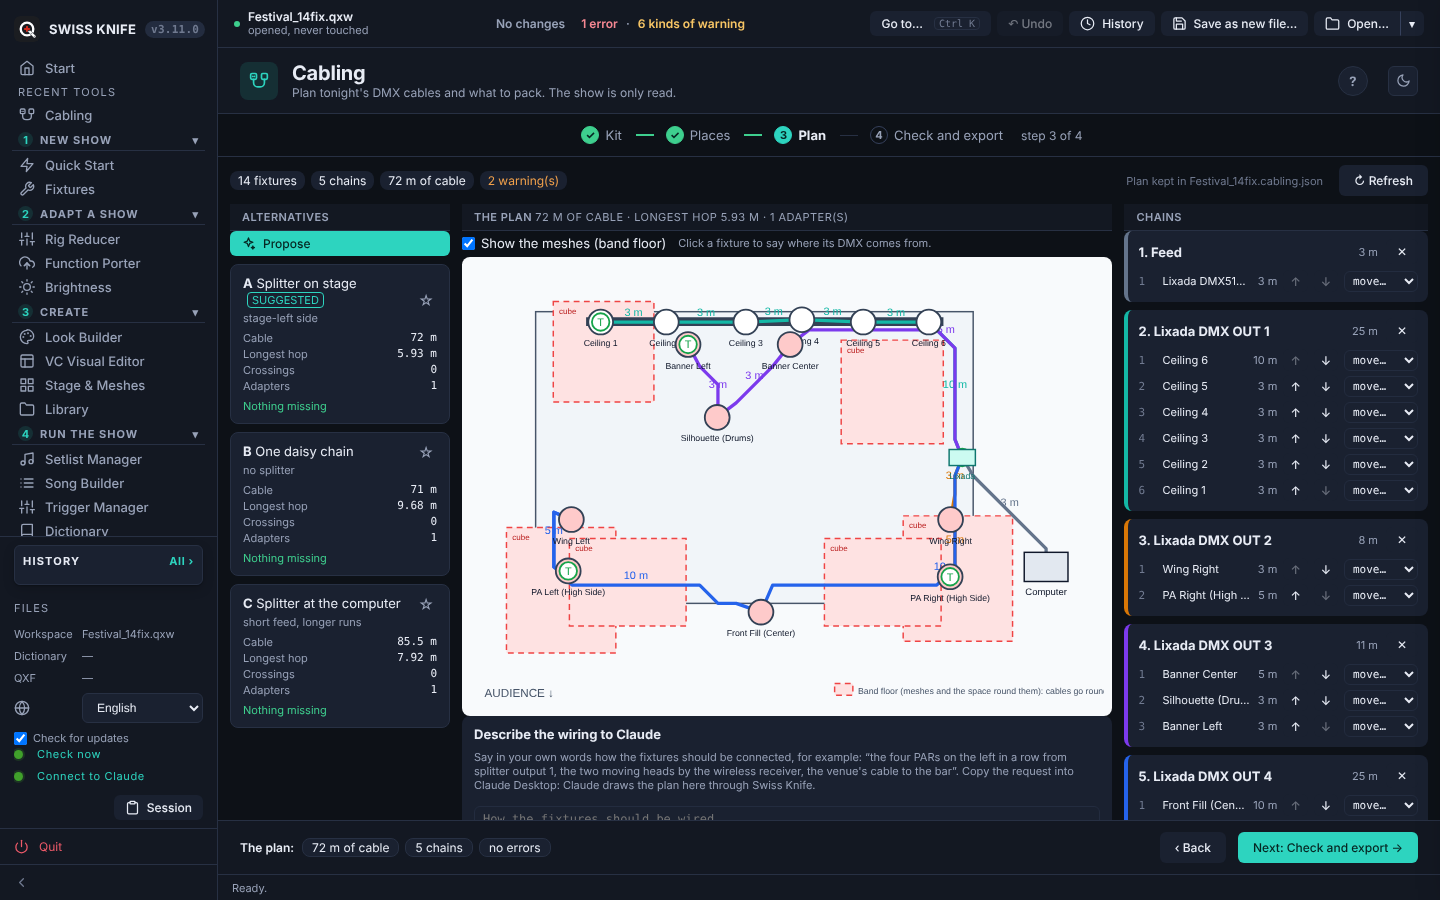
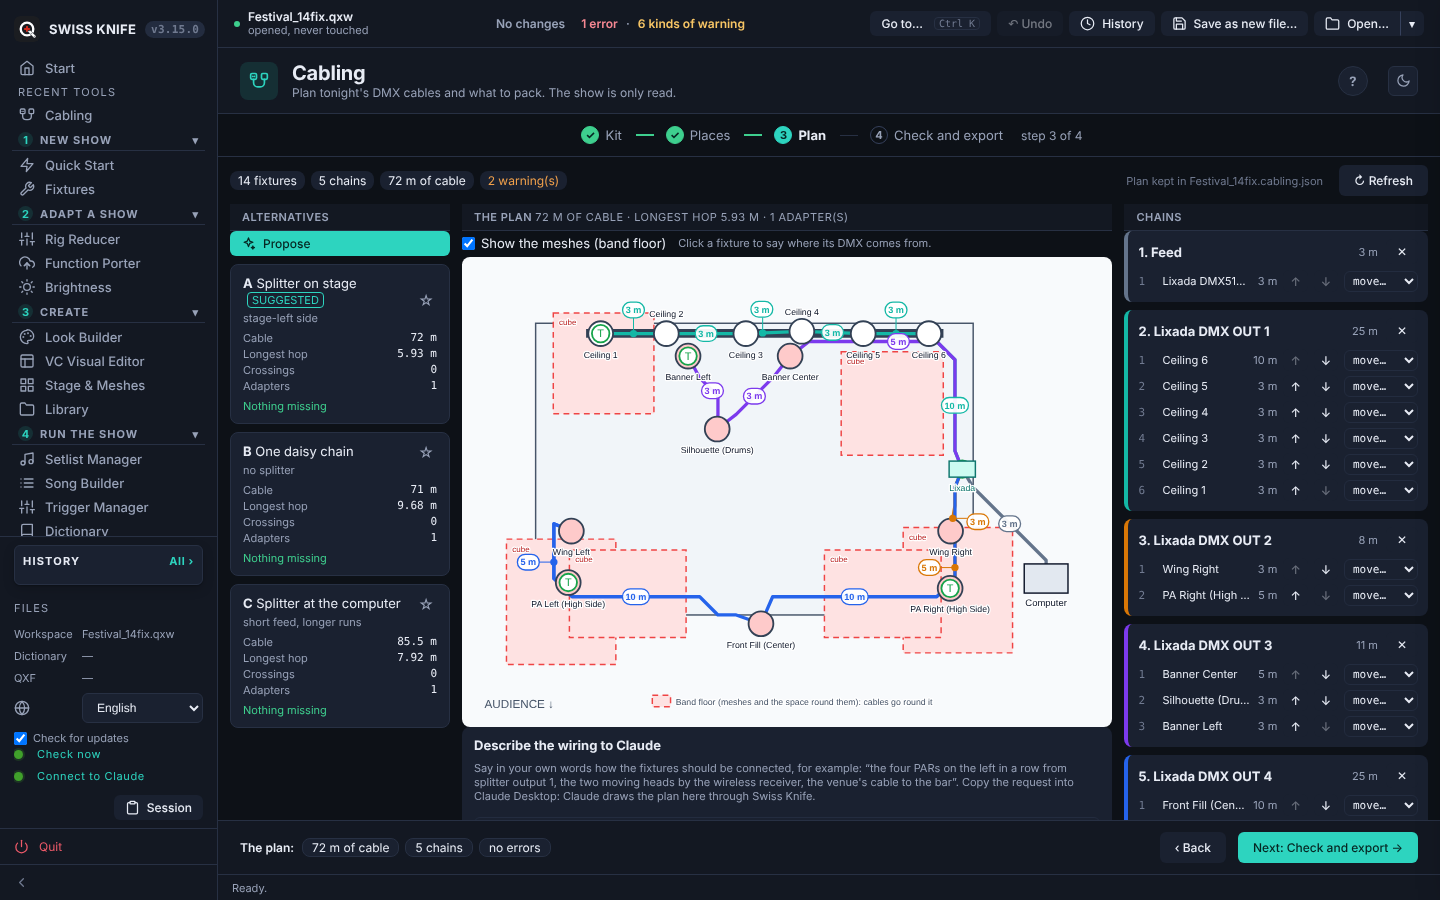
chore: release 3.15.0 (Cabling by radio)
Version 3.15.0 in workspace, README, spec and installer; CHANGELOG
section and release notes; Cabling plot screenshot retaken; WORKPLAN.

Claude-Session: https://claude.ai/code/session_01C97HwmdtVPyMas3zTDoMrE

Changed region(s): [[0.3125, 0.4978, 0.7812, 0.9022], [0.375, 0.3111, 0.6875, 0.4978], [0.6562, 0.4356, 0.6875, 0.4667]]

diff --git a/core/workspace.py b/core/workspace.py
@@ -30,7 +30,7 @@ QLC_NS_URI = 'http://www.qlcplus.org/Workspace'
 NS = {'q': QLC_NS_URI}
 ET.register_namespace('', QLC_NS_URI)
 
-VERSION = "3.14.1"  # single source of truth — must match CHANGELOG
+VERSION = "3.15.0"  # single source of truth — must match CHANGELOG
 
 # ── Safety limits (same as the tkinter version) ───────────────────────────────
 _MAX_XML_BYTES = 50 * 1024 * 1024   # 50 MB

diff --git a/WORKPLAN.md b/WORKPLAN.md
@@ -37,9 +37,9 @@ This is the living plan for Swiss Knife: where the project stands, what comes ne
 
 ## 2. Next releases
 
-**Next: 3.15.0, single fixtures by radio in Cabling** (giopas, 7 November 2026; branch `feat/v3.15.0`). Asked on the SangAKlang plan: send PA Left and PA Right by radio from a transmitter on a Lixada output, mark them on the plan, reroute the cables and move the terminators. Done: `core/cabling/plan.py` (`radio_feeds`, one receiver per radio chain placed by its fixture, a transmitter placed by what feeds it, C006 skips radio outputs, C005 when receivers run short), `chain.py` (no terminator on a transmitter without thru), `outputs.py` (ring, RX/TX boxes, legend kept inside the plot, pick list and load-in), `cabling.js` (*by radio, a receiver of its own*, radio tag, tidy-up of empty radio chains), the cabling tool description, 7 languages, `tests/test_cabling_3150.py`. Then, the same day: a readable plot (`outputs.py`: cable lengths on white tags placed where they cover least, with a leader to the cable when moved off it; fixture names placed where they are free; a white halo on every word; test in `test_cabling_3150.py`). Still to do before the release: the wiki page *Cabling*, `make_claude_tools_wiki.py`, the screenshots, the version bump and release notes.
+**Release in progress: 3.15.0, Cabling by radio** (giopas, 7 November 2026; branch `feat/v3.15.0`, waiting for the push and the tag). Asked on a real plan: send two PA fixtures by radio from a transmitter on a splitter output, mark them on the plan, reroute the cables and move the terminators; then a readable plot. Done: one receiver per radio chain placed by its fixture, the transmitter by what feeds it, `radio_feeds`, C006 skips radio outputs, C005 when receivers run short, no terminator on a transmitter without thru, ring and RX/TX boxes, cable lengths on white tags with leaders, fixture names placed where free, a white halo on every word, the legend kept inside the plot; *by radio, a receiver of its own* in the fixture panel; the `cabling` tool description; 7 languages; `tests/test_cabling_3150.py`; wiki *Cabling*; screenshot 22; version 3.15.0 and release notes. The main branch already carries the two feature commits (pushed before the release commit).
 
-**Released before: 3.14.1, the update card** (giopas, 7 November 2026; branch `fix/v3.14.1`, waiting for the push). 3.14.0, a clearer Song Builder, was released the same day (tag `v3.14.0`). Everything else waits in the wishlist in section 3; the two designed items (Teleprompter, Colour themes and porting by eye) are written out at the end of that section.
+**Released before: 3.14.1, the update card** (giopas, 7 November 2026; tag `v3.14.1`). 3.14.0, a clearer Song Builder, was released the same day (tag `v3.14.0`). Everything else waits in the wishlist in section 3; the two designed items (Teleprompter, Colour themes and porting by eye) are written out at the end of that section.
 
 ### 3.14.1 · The update card (fix)
 

diff --git a/docs/release-notes/RELEASE_NOTES_v3.15.0.md b/docs/release-notes/RELEASE_NOTES_v3.15.0.md
@@ -1,0 +1,18 @@
+### Added — single fixtures by radio in Cabling (3.15.0)
+
+- **A fixture can get its DMX by radio.** Click it on the plan and choose *by radio, a receiver of its own* under *Gets DMX*. The first time, the wireless transmitter goes on a free output of the splitter (or of the interface when no splitter is fed) and stands next to it. Every fixture sent by radio gets its own receiver, which stands by the fixture (on its truss when the fixture hangs), so two fixtures on opposite sides of the stage no longer share a cable.
+- **The plan shows it.** A fixture fed by radio has a dashed violet ring and the word *radio* on the plot, a *radio* tag in its chain, and its box says which receiver feeds it. The receivers (RX) and the transmitter (TX) are drawn as small boxes, and the legend explains the dashed lines.
+- **Cables and terminators follow.** The radio link needs no cable. The chains the fixtures left are walked again, so the fixture now last on each of them gets the terminator, and each fixture by radio gets one at the end of its own short chain. A transmitter with no thru ends its line itself, so it needs none.
+- **The counts follow too.** One transmitter can feed any number of receivers. When the plan needs more receivers than tonight's kit has, the rest go on the shopping list. The pick list counts one receiver per fixture by radio, and the load-in order says where each one goes.
+- **Claude** can wire the same: a chain from a free splitter output to the transmitter, then one chain per fixture from the transmitter through a receiver.
+
+### Changed — a cabling plot you can read (3.15.0)
+
+- **Cable lengths on tags.** Each length (and *to buy*, *venue*, *borrowed*) sits on a small white tag in the colour of its chain. The tag goes on its cable when there is room. Otherwise it moves beside the cable, away from fixtures, names, boxes, other cables and other tags, and a thin line with a dot points back to the cable it belongs to. Tags never cover each other.
+- **Fixture names where they are free.** A name goes under its fixture, or above or beside it when another fixture or box is in the way.
+- **Every word has a white halo**, so it stays readable where it crosses a line or the band floor.
+- The legend at the bottom was cut off at the right edge. It now stays inside the picture.
+
+---
+
+Downloads for macOS, Windows and Linux, the Claude Desktop file (.mcpb) and the checksums are below. The whole history is in the [CHANGELOG](https://github.com/giopas/qlc-plus-swiss-knife-tool-script/blob/main/CHANGELOG.md).

diff --git a/CHANGELOG.md b/CHANGELOG.md
@@ -7,6 +7,10 @@ This project follows [Keep a Changelog](https://keepachangelog.com/en/1.0.0/) co
 
 ## [Unreleased]
 
+---
+
+## [3.15.0] — 2026-11-07 — Cabling by radio
+
 ### Added — single fixtures by radio in Cabling (3.15.0)
 
 - **A fixture can get its DMX by radio.** Click it on the plan and choose *by radio, a receiver of its own* under *Gets DMX*. The first time, the wireless transmitter goes on a free output of the splitter (or of the interface when no splitter is fed) and stands next to it. Every fixture sent by radio gets its own receiver, which stands by the fixture (on its truss when the fixture hangs), so two fixtures on opposite sides of the stage no longer share a cable.

diff --git a/README.md b/README.md
@@ -1,4 +1,4 @@
-# QLC+ Swiss Knife v3.14.1
+# QLC+ Swiss Knife v3.15.0
 
 <p align="center"><img src="static/logo/icon-512.png" alt="QLC+ Swiss Knife logo" width="140"></p>
 
